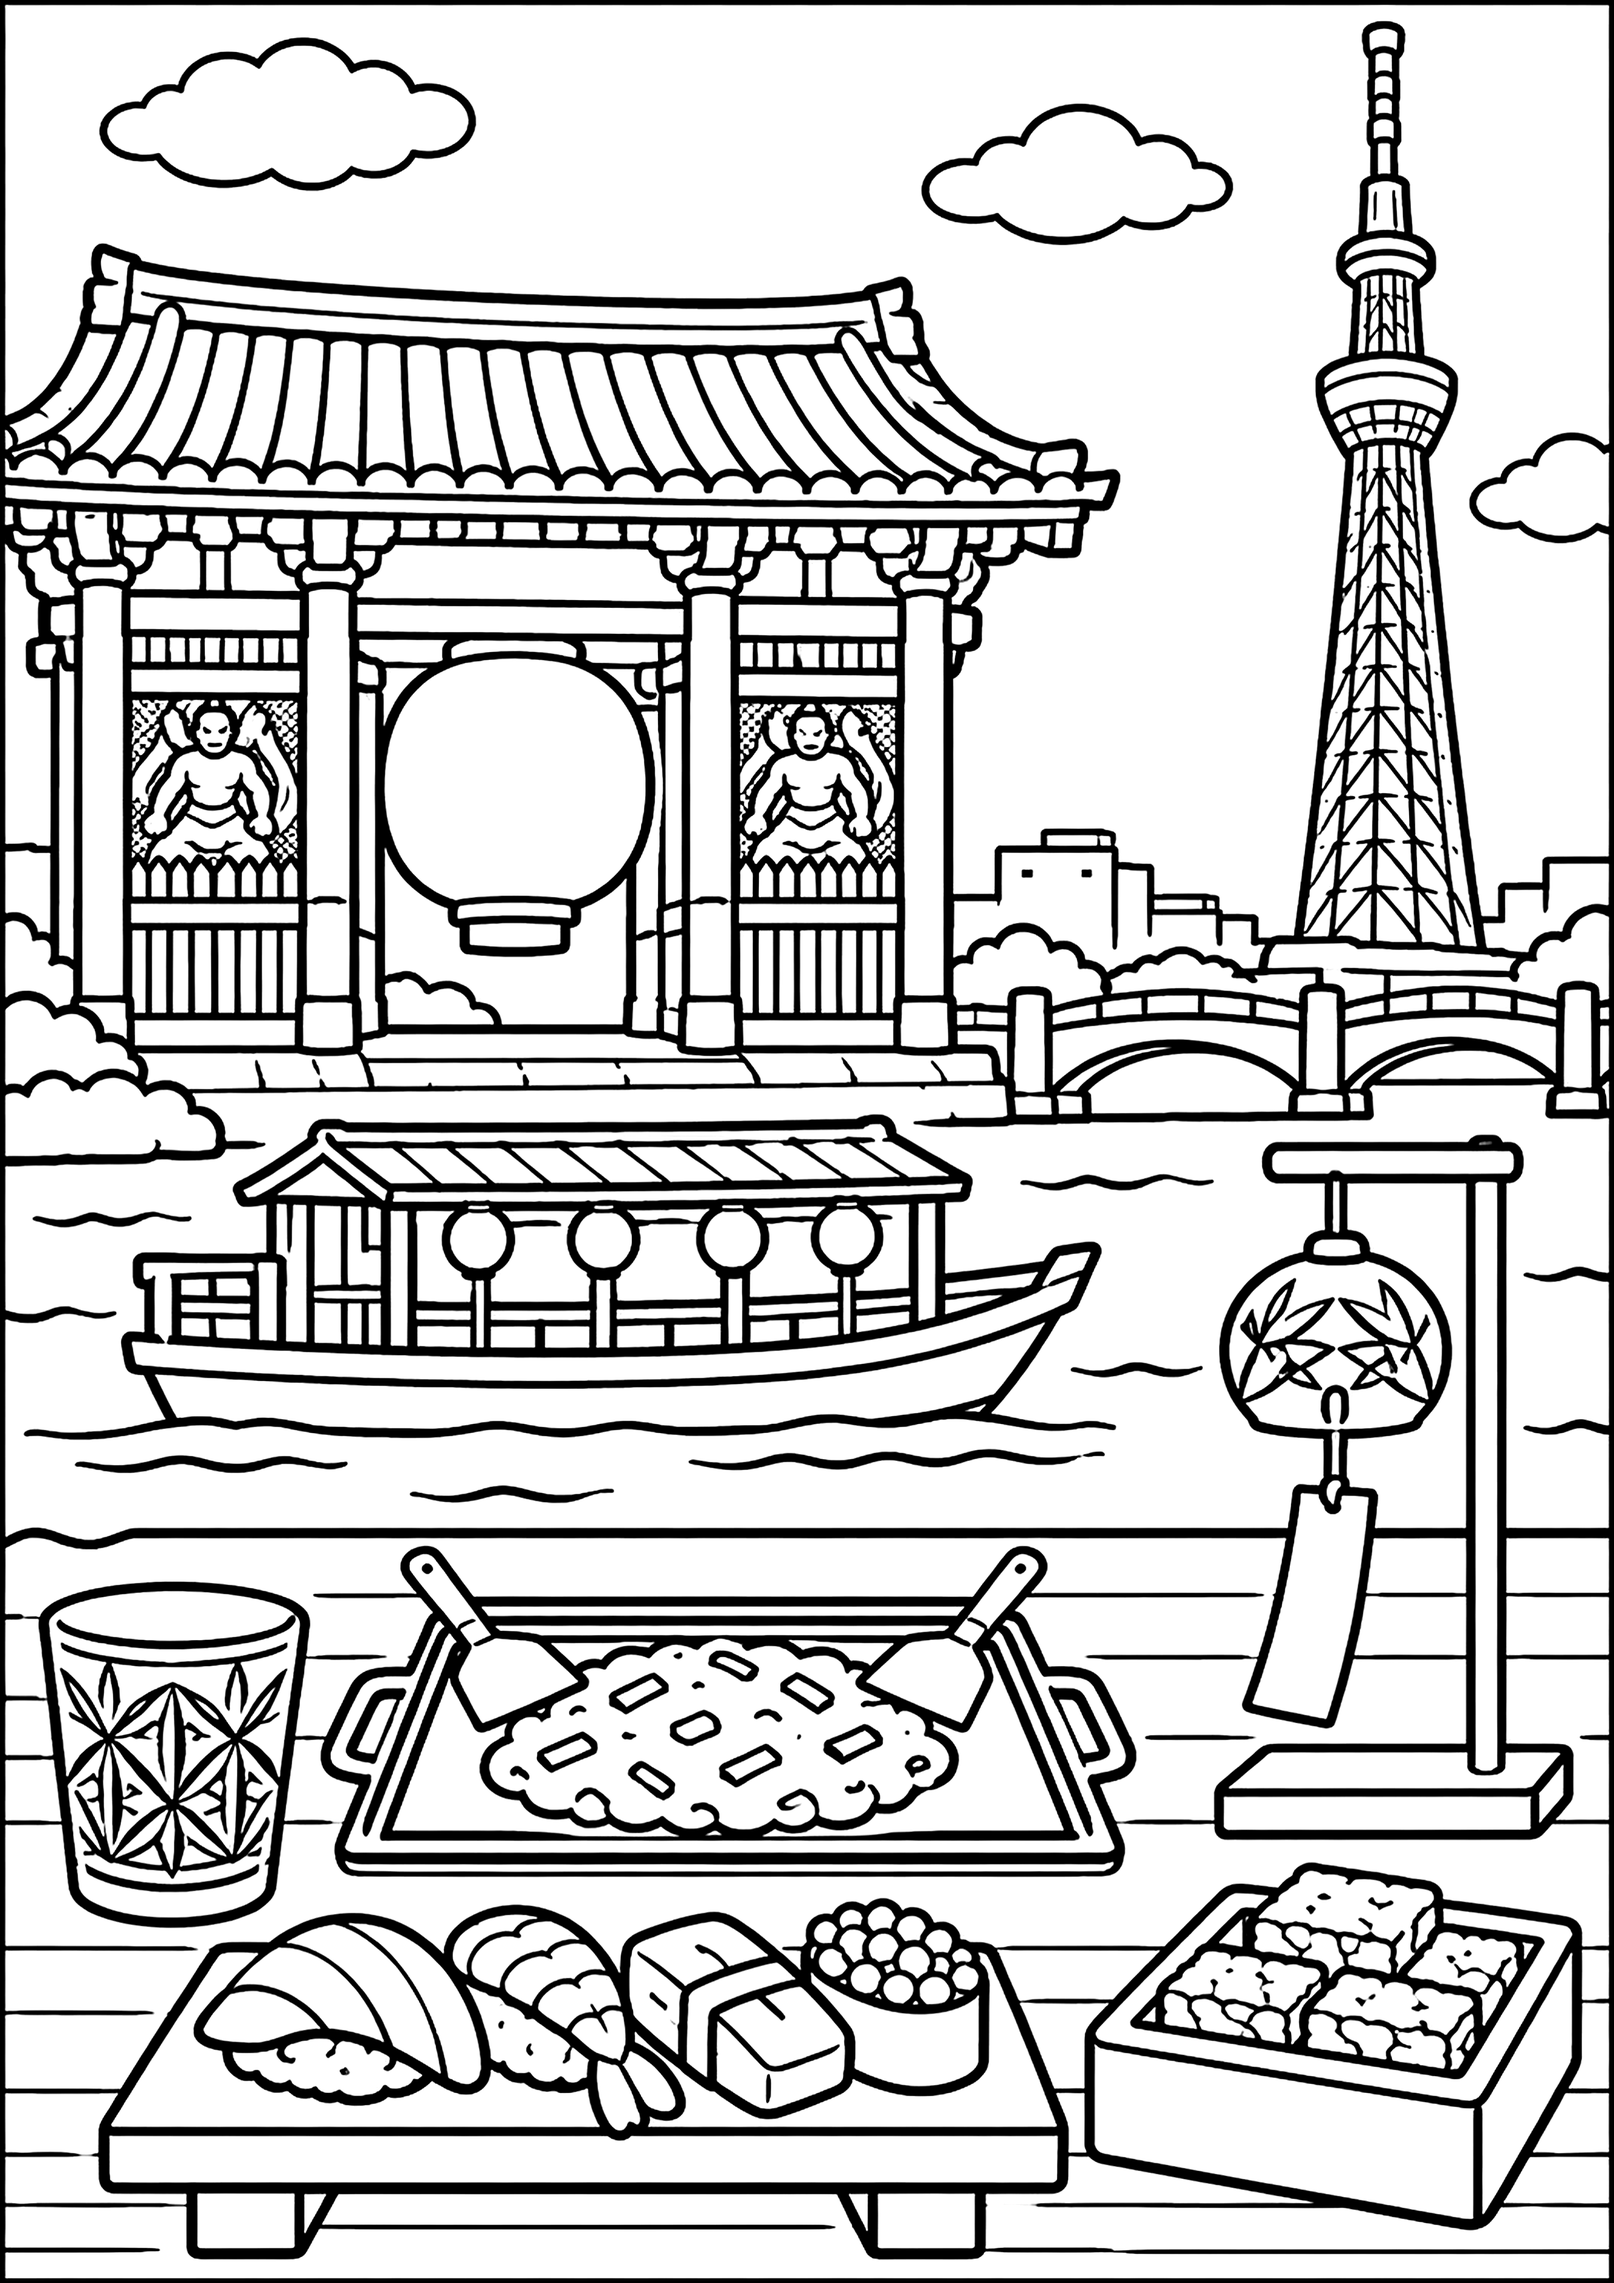
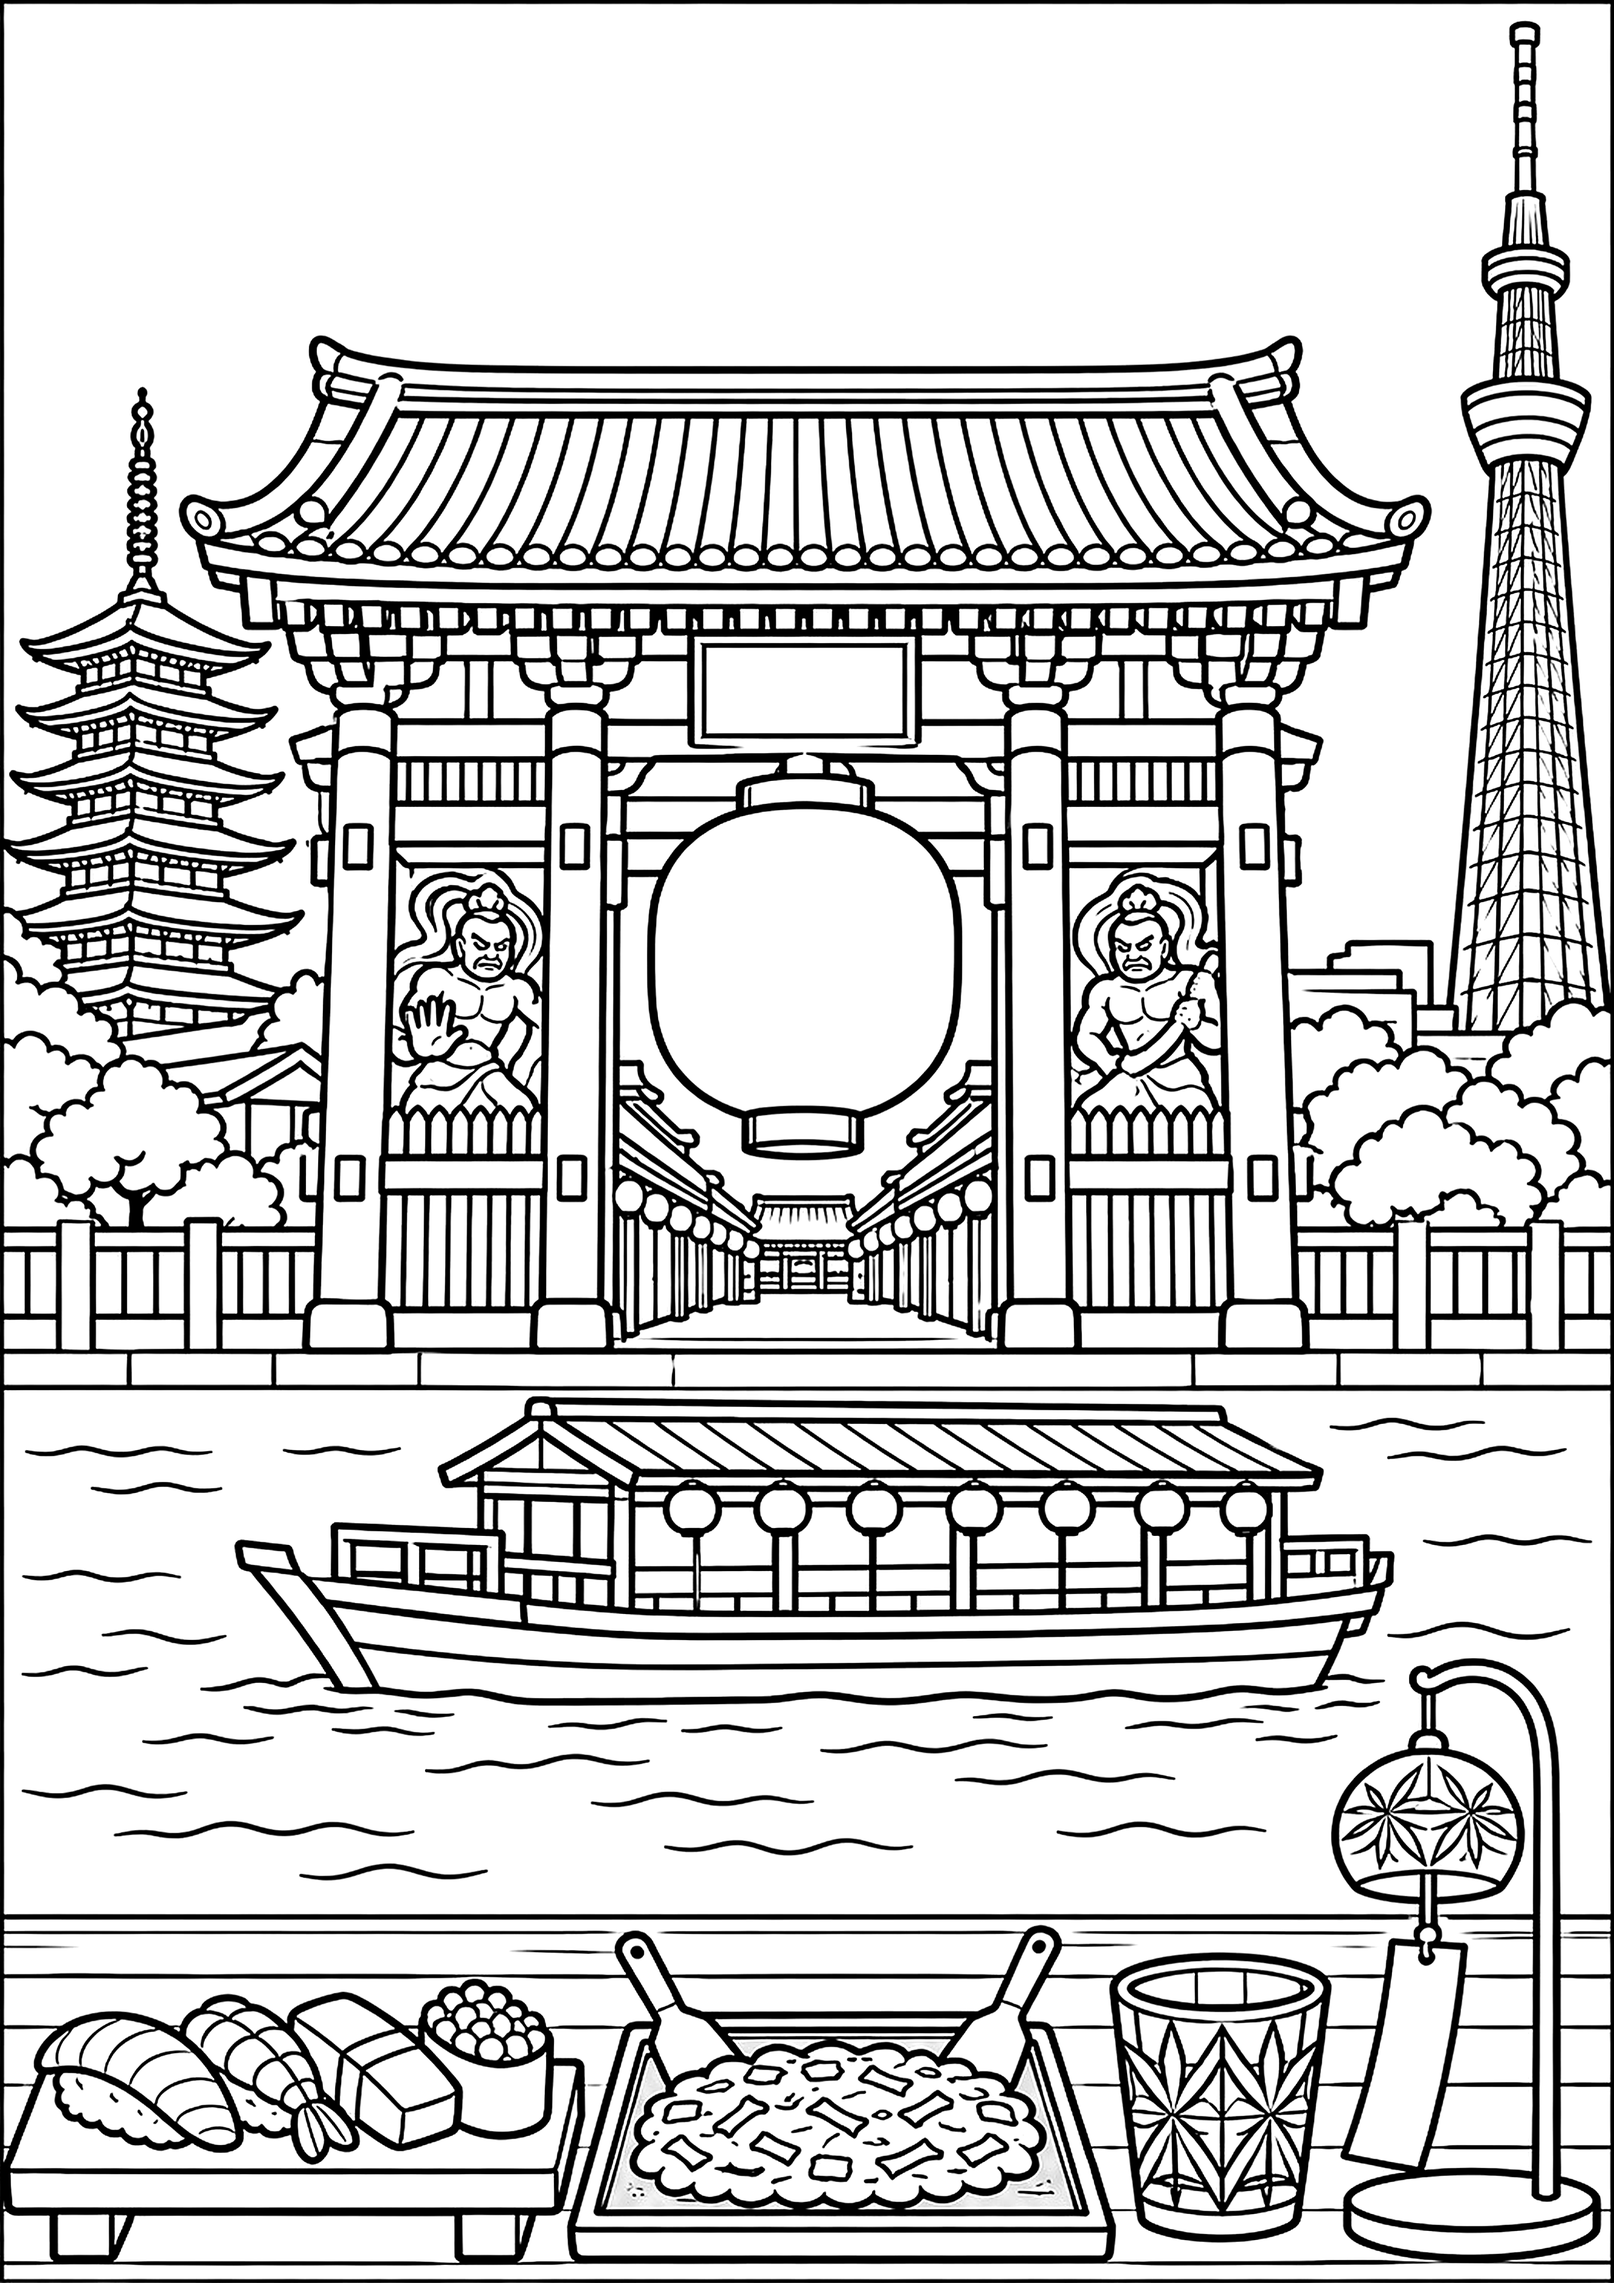
東京の上級をリアル寄りに作り直し
Claude-Session: https://claude.ai/code/session_01EPRbSRQa794dv8MzVMgYda

diff --git a/data.js b/data.js
@@ -1318,7 +1318,7 @@ window.NURIE_LIST = [
   { season: "通年", genre: "都道府県", title: "ご当地名産めぐり 日本地図", diff: "中級", file: "gotochi_nihonchizu.png", desc: "県境だけを描いた日本地図です。ご当地名産めぐりの塗り絵を1枚塗り終えるごとに、その県を地図で色分けして、日本一周をめざしましょう。", added: "2026-11", date: "2026-11-06", v: "1793966401014" },
   { season: "通年", genre: "都道府県", title: "ご当地名産めぐり 大阪府", diff: "上級", file: "gotochi_osaka_jo.png", sample: "gotochi_osaka_jo_sample.jpg", added: "2026-11", date: "2026-11-06", desc: "大阪城と石垣、通天閣、岸和田のだんじり、道頓堀の川と石橋、たこ焼き（鉄板と舟皿）、お好み焼きとコテ、串カツ、堺の包丁、泉州の水なす", v: "1793969271068" },
   { season: "通年", genre: "都道府県", title: "ご当地名産めぐり 大阪府（かんたん）", diff: "初級", file: "gotochi_osaka_sho.png", sample: "gotochi_osaka_sho_sample.jpg", added: "2026-11", date: "2026-11-06", desc: "4つのマスに1つずつ、大阪城、たこ焼き、通天閣、串カツ", v: "1793969271068" },
-  { season: "通年", genre: "都道府県", title: "ご当地名産めぐり 東京都", diff: "上級", file: "gotochi_tokyo_jo.png", sample: "gotochi_tokyo_jo_sample.jpg", added: "2026-11", date: "2026-11-06", desc: "浅草の雷門と大提灯、東京スカイツリー、隅田川の屋形船と橋、江戸前寿司、もんじゃ焼き、江戸切子のグラス、江戸風鈴、雷おこし", v: "1793970403313" },
+  { season: "通年", genre: "都道府県", title: "ご当地名産めぐり 東京都", diff: "上級", file: "gotochi_tokyo_jo.png", sample: "gotochi_tokyo_jo_sample.jpg", added: "2026-11", date: "2026-11-06", desc: "浅草の雷門と大提灯、仲見世と浅草寺の五重塔、東京スカイツリー、隅田川の屋形船、江戸前寿司、もんじゃ焼き、江戸切子のグラス、江戸風鈴", v: "1793973305556" },
   { season: "通年", genre: "都道府県", title: "ご当地名産めぐり 東京都（かんたん）", diff: "初級", file: "gotochi_tokyo_sho.png", sample: "gotochi_tokyo_sho_sample.jpg", added: "2026-11", date: "2026-11-06", desc: "4つのマスに1つずつ、雷門、東京スカイツリー、江戸前寿司、江戸風鈴", v: "1793970403313" },
   { season: "通年", genre: "都道府県", title: "ご当地名産めぐり 北海道", diff: "上級", file: "gotochi_hokkaido_jo.png", sample: "gotochi_hokkaido_jo_sample.jpg", added: "2026-11", date: "2026-11-06", desc: "札幌の時計台、富良野のラベンダー畑、牧場の乳牛、丹頂鶴、毛ガニ、夕張メロン、とうもろこし、じゃがバター、ラーメン、新巻鮭", v: "1793969271068" },
   { season: "通年", genre: "都道府県", title: "ご当地名産めぐり 北海道（かんたん）", diff: "初級", file: "gotochi_hokkaido_sho.png", sample: "gotochi_hokkaido_sho_sample.jpg", added: "2026-11", date: "2026-11-06", desc: "4つのマスに1つずつ、札幌の時計台、毛ガニ、とうもろこし、夕張メロン", v: "1793969271068" },
